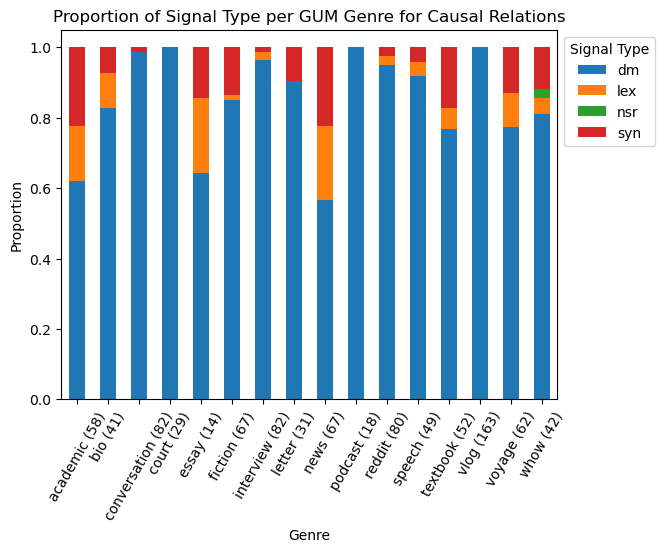
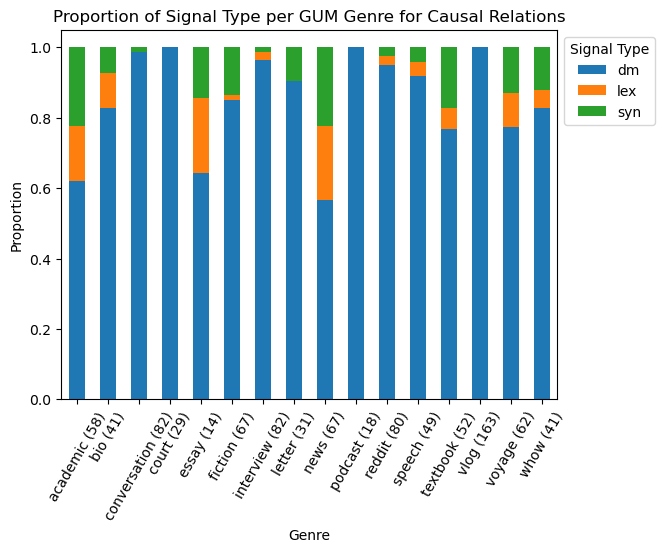
data update and first pass at variation analysis

diff --git a/coarse_level_variation.py b/coarse_level_variation.py
@@ -1,0 +1,139 @@
+from scipy.spatial import distance
+from scipy.cluster.hierarchy import dendrogram, linkage
+from scipy.spatial.distance import squareform
+import csv
+import numpy as np
+import matplotlib.pyplot as plt
+import seaborn as sns
+sns.set_style('dark')
+
+
+def frequency_counts_coarserel_genre(infile):
+	lines = []
+	with open(infile, "r") as file:
+		reader = csv.reader(file, delimiter='\t')
+		next(reader, None)  # skip the headers
+		for line in reader:
+			lines.append(line)
+	freq_counts = {}
+	for line in lines:
+		genre = line[1]
+		coarse_relation = line[2]
+		signal_type = line[4]
+		if signal_type == 'orp':
+			signal_type = 'dm'
+		if coarse_relation in freq_counts:
+			if genre in freq_counts[coarse_relation]:
+				if signal_type in freq_counts[coarse_relation][genre]:
+					freq_counts[coarse_relation][genre][signal_type] += 1
+				else:
+					freq_counts[coarse_relation][genre][signal_type] = 1
+			else:
+				freq_counts[coarse_relation][genre] = {signal_type: 1}
+		else:
+			freq_counts[coarse_relation] = {genre: {signal_type: 1}}
+
+	# fill in zeros
+	singal_types = ['dm', 'grf', 'lex', 'mrf', 'num', 'ref', 'sem', 'syn']
+	for coarse_relation in freq_counts:
+		for genre in freq_counts[coarse_relation]:
+			for sig_type in singal_types:
+				if sig_type not in freq_counts[coarse_relation][genre]:
+					freq_counts[coarse_relation][genre][sig_type] = 0
+
+	return freq_counts
+
+def pairwise_jsd(freq_counts):
+	pair_distances = {}
+	singal_types = ['dm', 'grf', 'lex', 'mrf', 'num', 'ref', 'sem', 'syn']
+	for coarse_relation in freq_counts:
+		pair_distances[coarse_relation] = {}
+		genre_pairs_seen = set()
+		for genre1 in freq_counts[coarse_relation]:
+			for genre2 in freq_counts[coarse_relation]:
+				if (genre2, genre1) not in genre_pairs_seen and genre1 != genre2:
+					genre1_counts = []
+					genre2_counts = []
+					for sig in singal_types:
+						genre1_counts.append(freq_counts[coarse_relation][genre1][sig])
+						genre2_counts.append(freq_counts[coarse_relation][genre2][sig])
+					pair_distances[coarse_relation][(genre2, genre1)] = distance.jensenshannon(genre1_counts, genre2_counts)
+					genre_pairs_seen.add((genre2, genre1))
+					genre_pairs_seen.add((genre1, genre2))
+
+	return pair_distances
+
+def rank_variation(pair_distances):
+	# Which relations show the most inter-genre variation?
+	# For each relation, calculate pair-wise avg of JSD, then sort in decending order
+	relation_avg_jsd = []
+	for relation in pair_distances:
+		pairs_count = len(pair_distances[relation])
+		jsd_sum = 0
+		for pair in pair_distances[relation]:
+			jsd_sum += pair_distances[relation][pair]
+		relation_avg_jsd.append((relation, jsd_sum / pairs_count))
+	relation_jsd_sorted_descending = sorted(relation_avg_jsd, key=lambda x: x[1], reverse=True)
+	for rel_jsd in relation_jsd_sorted_descending:
+		print(rel_jsd)
+		#('organization', 0.3575705520997728)
+		#('explanation', 0.34831146431631826)
+		#('restatement', 0.2965876654702925)
+		#('context', 0.2741118748162802)
+		#('joint', 0.2352734773629788)
+		#('mode', 0.19919851956411835)
+		#('causal', 0.19592911381159392)
+		#('contingency', 0.18613163957265172)
+		#('elaboration', 0.17102395611252416)
+		#('purpose', 0.11921745935527214)
+		#('attribution', 0.11417348527138776)
+		#('adversative', 0.08437153764023812)
+		#('evaluation', 0.02908569613791581)
+	# Make visualizaions
+
+	return
+
+def make_distance_matrix(distances):
+	genres = ["academic", "bio", "conversation", "court", "essay", "fiction", "interview", 
+	"letter", "news", "podcast", "reddit", "speech", "textbook", "vlog", "voyage", "whow"]
+	distance_matrix = []
+	for genre1 in genres:
+		row = []
+		for genre2 in genres:
+			if genre1 == genre2:
+				row.append(0)
+			elif (genre1, genre2) in distances:
+				row.append(distances[(genre1, genre2)])
+			elif (genre2, genre1) in distances:
+				row.append(distances[(genre2, genre1)])
+			else:
+				print("DANGER")
+		distance_matrix.append(row)
+
+	return np.array(distance_matrix), genres
+
+
+def make_dendrogram(relation, pair_distances):
+	# Will illustrate which genres signal the gives relation most similarly/differently
+	# Make distance matrix
+	distance_matrix, genres = make_distance_matrix(pair_distances[relation])
+	dists = squareform(distance_matrix)
+	linkage_matrix = linkage(dists, "average")
+	# Make visualizaion
+	dendrogram(linkage_matrix, labels=genres)
+	plt.title('Signaling similarity between genres for relation: ' + relation)
+	plt.xticks(rotation=45)
+	plt.show()
+	return
+
+def coarse_level_variation():
+	datafile = "GUM_signals.tsv"
+	freq_counts = frequency_counts_coarserel_genre(datafile)
+	pair_distances = pairwise_jsd(freq_counts)
+	#rank_variation(pair_distances)
+	make_dendrogram("restatement", pair_distances)
+	#print(freq_counts)
+
+
+if __name__ == "__main__":
+	coarse_level_variation()

diff --git a/visualizations.py b/visualizations.py
@@ -115,5 +115,5 @@ def create_signal_proportion_graphs():
 	return
 
 if __name__ == "__main__":
-	create_signal_proportion_graphs()
-	#create_signal_proportion_genre_graphs()
+	#create_signal_proportion_graphs()
+	create_signal_proportion_genre_graphs()
